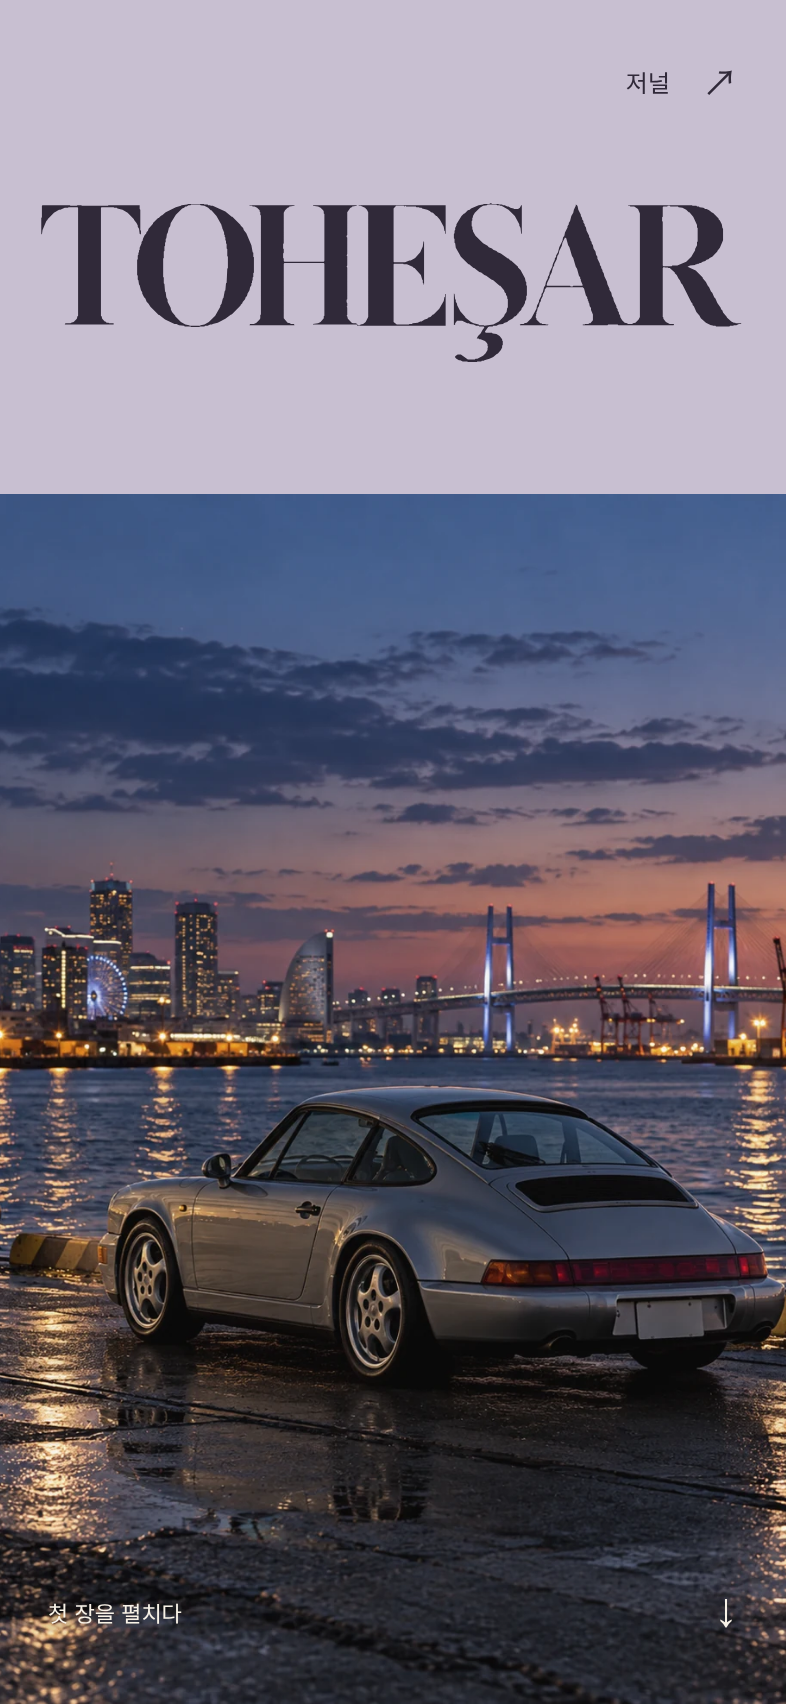
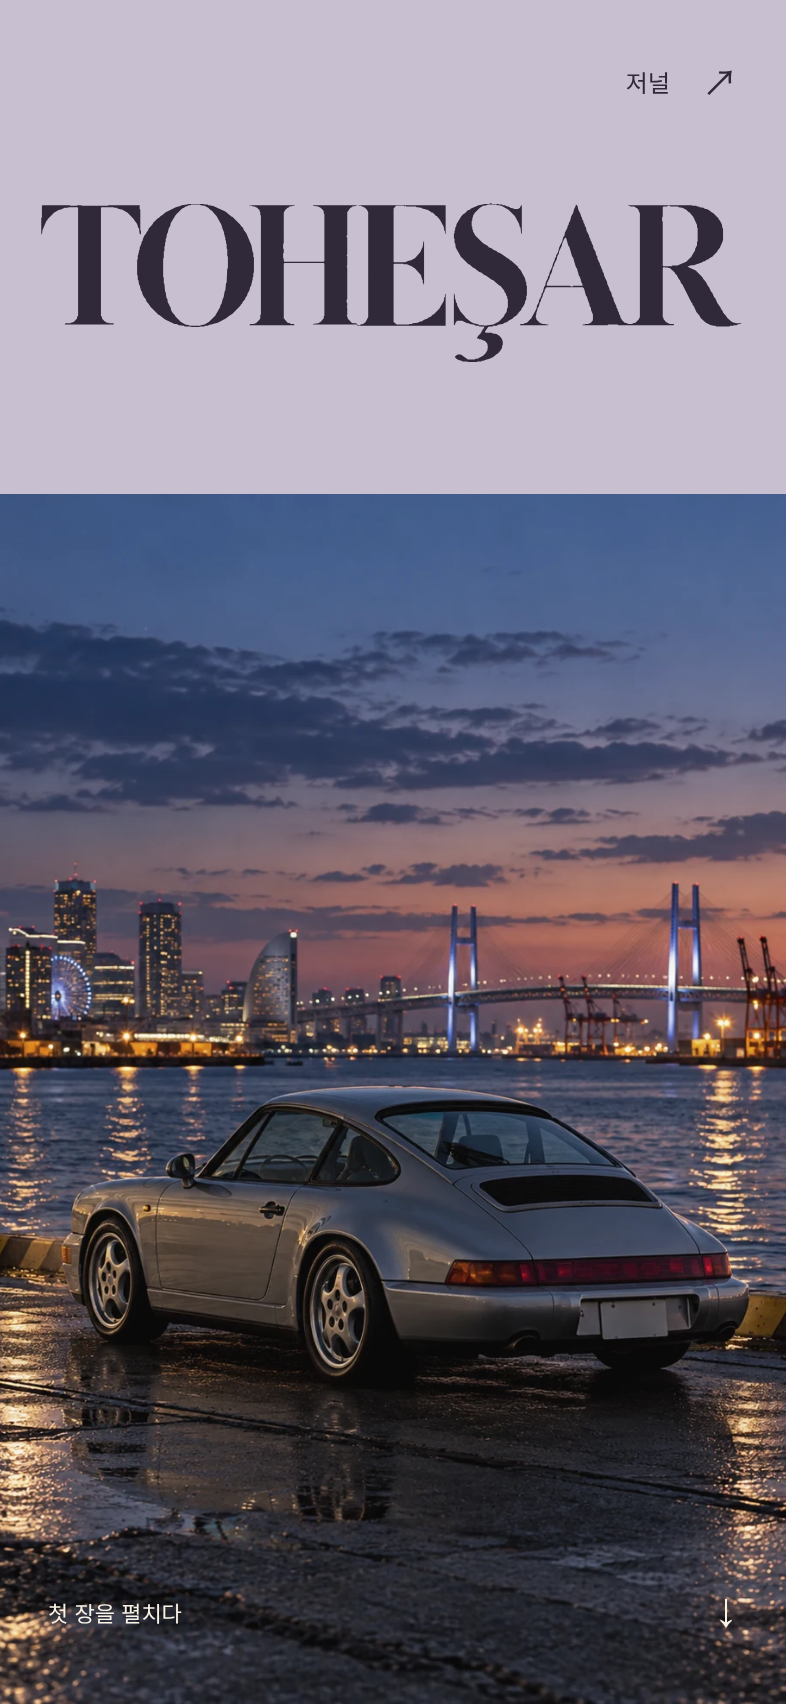
Refine silhouette-preserving transition and archive iPhone compositions

diff --git a/creative/cover-art-max-003/cover.js b/creative/cover-art-max-003/cover.js
@@ -42,7 +42,8 @@
     signature.style.opacity=phase(p,.66,.86);
     signature.style.visibility=p>.66?'visible':'hidden';
     cue.style.opacity=1-phase(p,0,.12);cue.style.visibility=p>.12?'hidden':'visible';
-    editorial.style.visibility=p>.38?'visible':'hidden';
+    editorial.style.visibility=p>.68?'visible':'hidden';
+    editorial.style.clipPath=`inset(0 0 ${100*(1-phase(p,.68,.96))}% 0)`;
     editorial.style.transform=`translateY(${18*(1-phase(p,.48,.94))}px)`;
     document.querySelector('.journal-link').style.opacity=1-phase(p,.06,.22)+phase(p,.72,.92);
   }

diff --git a/creative/cover-art-max-003/README.md b/creative/cover-art-max-003/README.md
@@ -1,0 +1,14 @@
+# TOHEŞAR — Cover 003
+
+Entry: `creative/cover-art-max-003/index.html` (serve the repository root).
+Based on 002 commit `5297d0fd169c82fcc93a359b220e3064e0880aef`.
+
+Lavender masthead → photograph closes over the name → inset plate and Korean opening.
+The original SVG paths and repository images are untouched. 002 is preserved.
+
+The photograph remains a temporary composition asset. Replace the image and preload
+URLs in index.html; tune the focal point in photo.css and the wide/mobile positions in cover.js.
+
+`previews/`: Chromium renders at 393 × 852 CSS pixels, 2× density; cover, transition, first page.
+These are visual composition references, not physical iPhone Safari captures.
+No technical QA, production deployment, or additional pages were performed.
